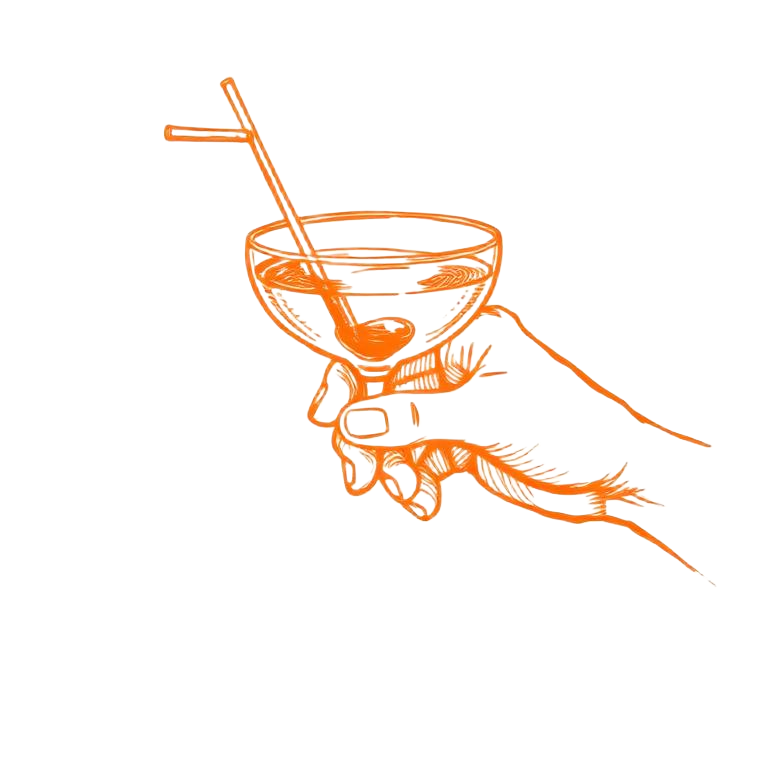
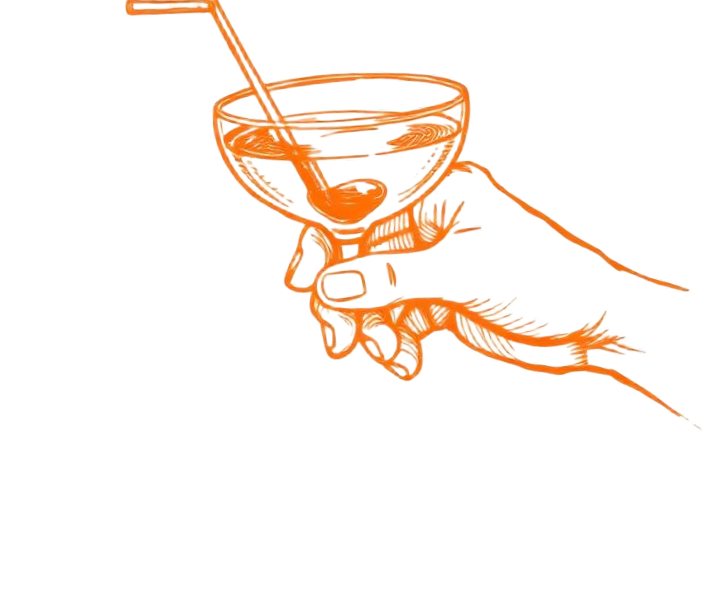
fix: 'on now' bug

diff --git a/frontend/components/SearchBar.tsx b/frontend/components/SearchBar.tsx
@@ -6,6 +6,7 @@ import type { SearchOptions } from "@/lib/types";
 interface SearchBarProps {
   onSearch: (lat: number, lng: number, options: SearchOptions) => void;
   isLoading: boolean;
+  userLocation?: { lat: number; lng: number } | null;
 }
 
 const RADIUS_OPTIONS = [1, 3, 5, 10];
@@ -35,7 +36,7 @@ function Spinner() {
 const inputClasses =
   "bg-background border border-border rounded-lg px-3 py-2 text-sm text-text-primary placeholder:text-text-muted focus:outline-none focus:ring-2 focus:ring-primary transition";
 
-export default function SearchBar({ onSearch, isLoading }: SearchBarProps) {
+export default function SearchBar({ onSearch, isLoading, userLocation }: SearchBarProps) {
   const [address, setAddress] = useState("");
   const [geocoding, setGeocoding] = useState(false);
   const [locating, setLocating] = useState(false);
@@ -69,7 +70,17 @@ export default function SearchBar({ onSearch, isLoading }: SearchBarProps) {
   async function handleAddressSearch(e: React.FormEvent) {
     e.preventDefault();
     setError(null);
-    if (!address.trim()) return;
+
+    if (!address.trim()) {
+      // No new address typed: re-run the search with the updated filters
+      // against wherever the last search was centered, instead of no-op'ing.
+      if (userLocation) {
+        onSearch(userLocation.lat, userLocation.lng, options);
+      } else {
+        setError("Enter an address, or use your location first.");
+      }
+      return;
+    }
 
     setGeocoding(true);
     try {
@@ -80,7 +91,8 @@ export default function SearchBar({ onSearch, isLoading }: SearchBarProps) {
 
       const response = await fetch(url);
       if (!response.ok) {
-        throw new Error("Geocoding request failed");
+        setError("Address search is temporarily unavailable. Please try again shortly.");
+        return;
       }
       const data = await response.json();
       const feature = data.features?.[0];
@@ -91,7 +103,7 @@ export default function SearchBar({ onSearch, isLoading }: SearchBarProps) {
       const [lng, lat] = feature.center;
       onSearch(lat, lng, options);
     } catch {
-      setError("Couldn't find that address. Try being more specific.");
+      setError("Address search is temporarily unavailable. Please try again shortly.");
     } finally {
       setGeocoding(false);
     }
@@ -108,7 +120,7 @@ export default function SearchBar({ onSearch, isLoading }: SearchBarProps) {
           disabled={busy}
           className="flex items-center justify-center gap-2 bg-primary hover:bg-primary-hover disabled:opacity-60 text-background font-semibold rounded-lg px-4 py-2 text-sm whitespace-nowrap transition"
         >
-          {locating ? <Spinner /> : <span>📍</span>}
+          {locating && <Spinner />}
           Use my location
         </button>
 

diff --git a/frontend/components/Hero.tsx b/frontend/components/Hero.tsx
@@ -15,7 +15,7 @@ interface HeroProps {
 const HANDS = [
   { src: "/hands/hand-1.png", alt: "Hand holding a tall highball cocktail", left: 2, top: 2, size: 20, rot: 20 },
   { src: "/hands/hand-2.png", alt: "Hand holding a rocks glass with citrus", left: 80, top: 25, size: 21, rot: -20, flip: true },
-  { src: "/hands/hand-3.png", alt: "Hand holding a coupe with a straw", left: -2, top: 62, size: 22, rot: -8 ,flip: true},
+  { src: "/hands/hand-3.png", alt: "Hand holding a coupe with a straw", left: -2, top: 70, size: 22, rot: -8 ,flip: true},
   { src: "/hands/hand-4.png", alt: "Hand holding a champagne flute", left: 79, top: 60, size: 22, rot: -10, flip: true },
   { src: "/hands/hand-5.png", alt: "Hand tilting a martini with a cherry", left: 30, top: -4, size: 18, rot: 30 },
   { src: "/hands/hand-6.png", alt: "Hand holding a beer mug", left: 41, top: 70, size: 19, rot: -10 },
@@ -25,7 +25,7 @@ const HANDS = [
 
 export default function Hero({ onSearch, isLoading }: HeroProps) {
   return (
-    <main className="relative min-h-screen overflow-hidden bg-[#2b2420]">
+    <main className="relative min-h-screen overflow-hidden bg-background">
       <div className="pointer-events-none absolute inset-0 grain-bg opacity-60" aria-hidden />
 
       <div className="pointer-events-none absolute inset-0">

diff --git a/frontend/tailwind.config.ts b/frontend/tailwind.config.ts
@@ -9,16 +9,18 @@ const config: Config = {
   theme: {
     extend: {
       colors: {
-        background: "#0a0a0f",
-        surface: "#13131a",
-        border: "#ffffff10",
+        // Matched to the Lovable landing design's .dark palette
+        // (converted precisely from its oklch values, not eyeballed).
+        background: "#1a120c",
+        surface: "#261d16",
+        border: "#ffffff24",
         primary: {
-          DEFAULT: "#f59e0b",
-          hover: "#d97706",
+          DEFAULT: "#f99549",
+          hover: "#d67523",
         },
         text: {
-          primary: "#f8fafc",
-          muted: "#94a3b8",
+          primary: "#f2eee4",
+          muted: "#aba397",
         },
         live: "#22c55e",
         deal: "#3b82f6",

diff --git a/frontend/components/Header.tsx b/frontend/components/Header.tsx
@@ -1,7 +1,7 @@
 export default function Header() {
   return (
     <header className="sticky top-0 z-50 h-[57px] flex items-center justify-between px-4 md:px-6 bg-background border-b border-border">
-      <span className="text-xl font-bold text-primary tracking-tight">Cincin</span>
+      <span className="font-display italic text-2xl text-primary tracking-tight">Cincin</span>
       <span className="hidden md:block text-sm text-text-muted">Phoenix deals, found.</span>
     </header>
   );

diff --git a/frontend/app/page.tsx b/frontend/app/page.tsx
@@ -38,7 +38,7 @@ export default function Home() {
     <main>
       <Header />
       <div className="px-4 py-4 border-b border-border bg-background sticky top-[57px] z-40">
-        <SearchBar onSearch={handleSearch} isLoading={phase === "loading"} />
+        <SearchBar onSearch={handleSearch} isLoading={phase === "loading"} userLocation={userLocation} />
       </div>
 
       {phase === "loading" && (

diff --git a/frontend/app/globals.css b/frontend/app/globals.css
@@ -53,7 +53,7 @@ body {
 
 /* Ported from the Lovable landing design (hero background + hand illustrations). */
 .grain-bg {
-  background-image: radial-gradient(rgba(248, 250, 252, 0.08) 1px, transparent 1px);
+  background-image: radial-gradient(rgba(242, 238, 228, 0.08) 1px, transparent 1px);
   background-size: 4px 4px;
 }
 
